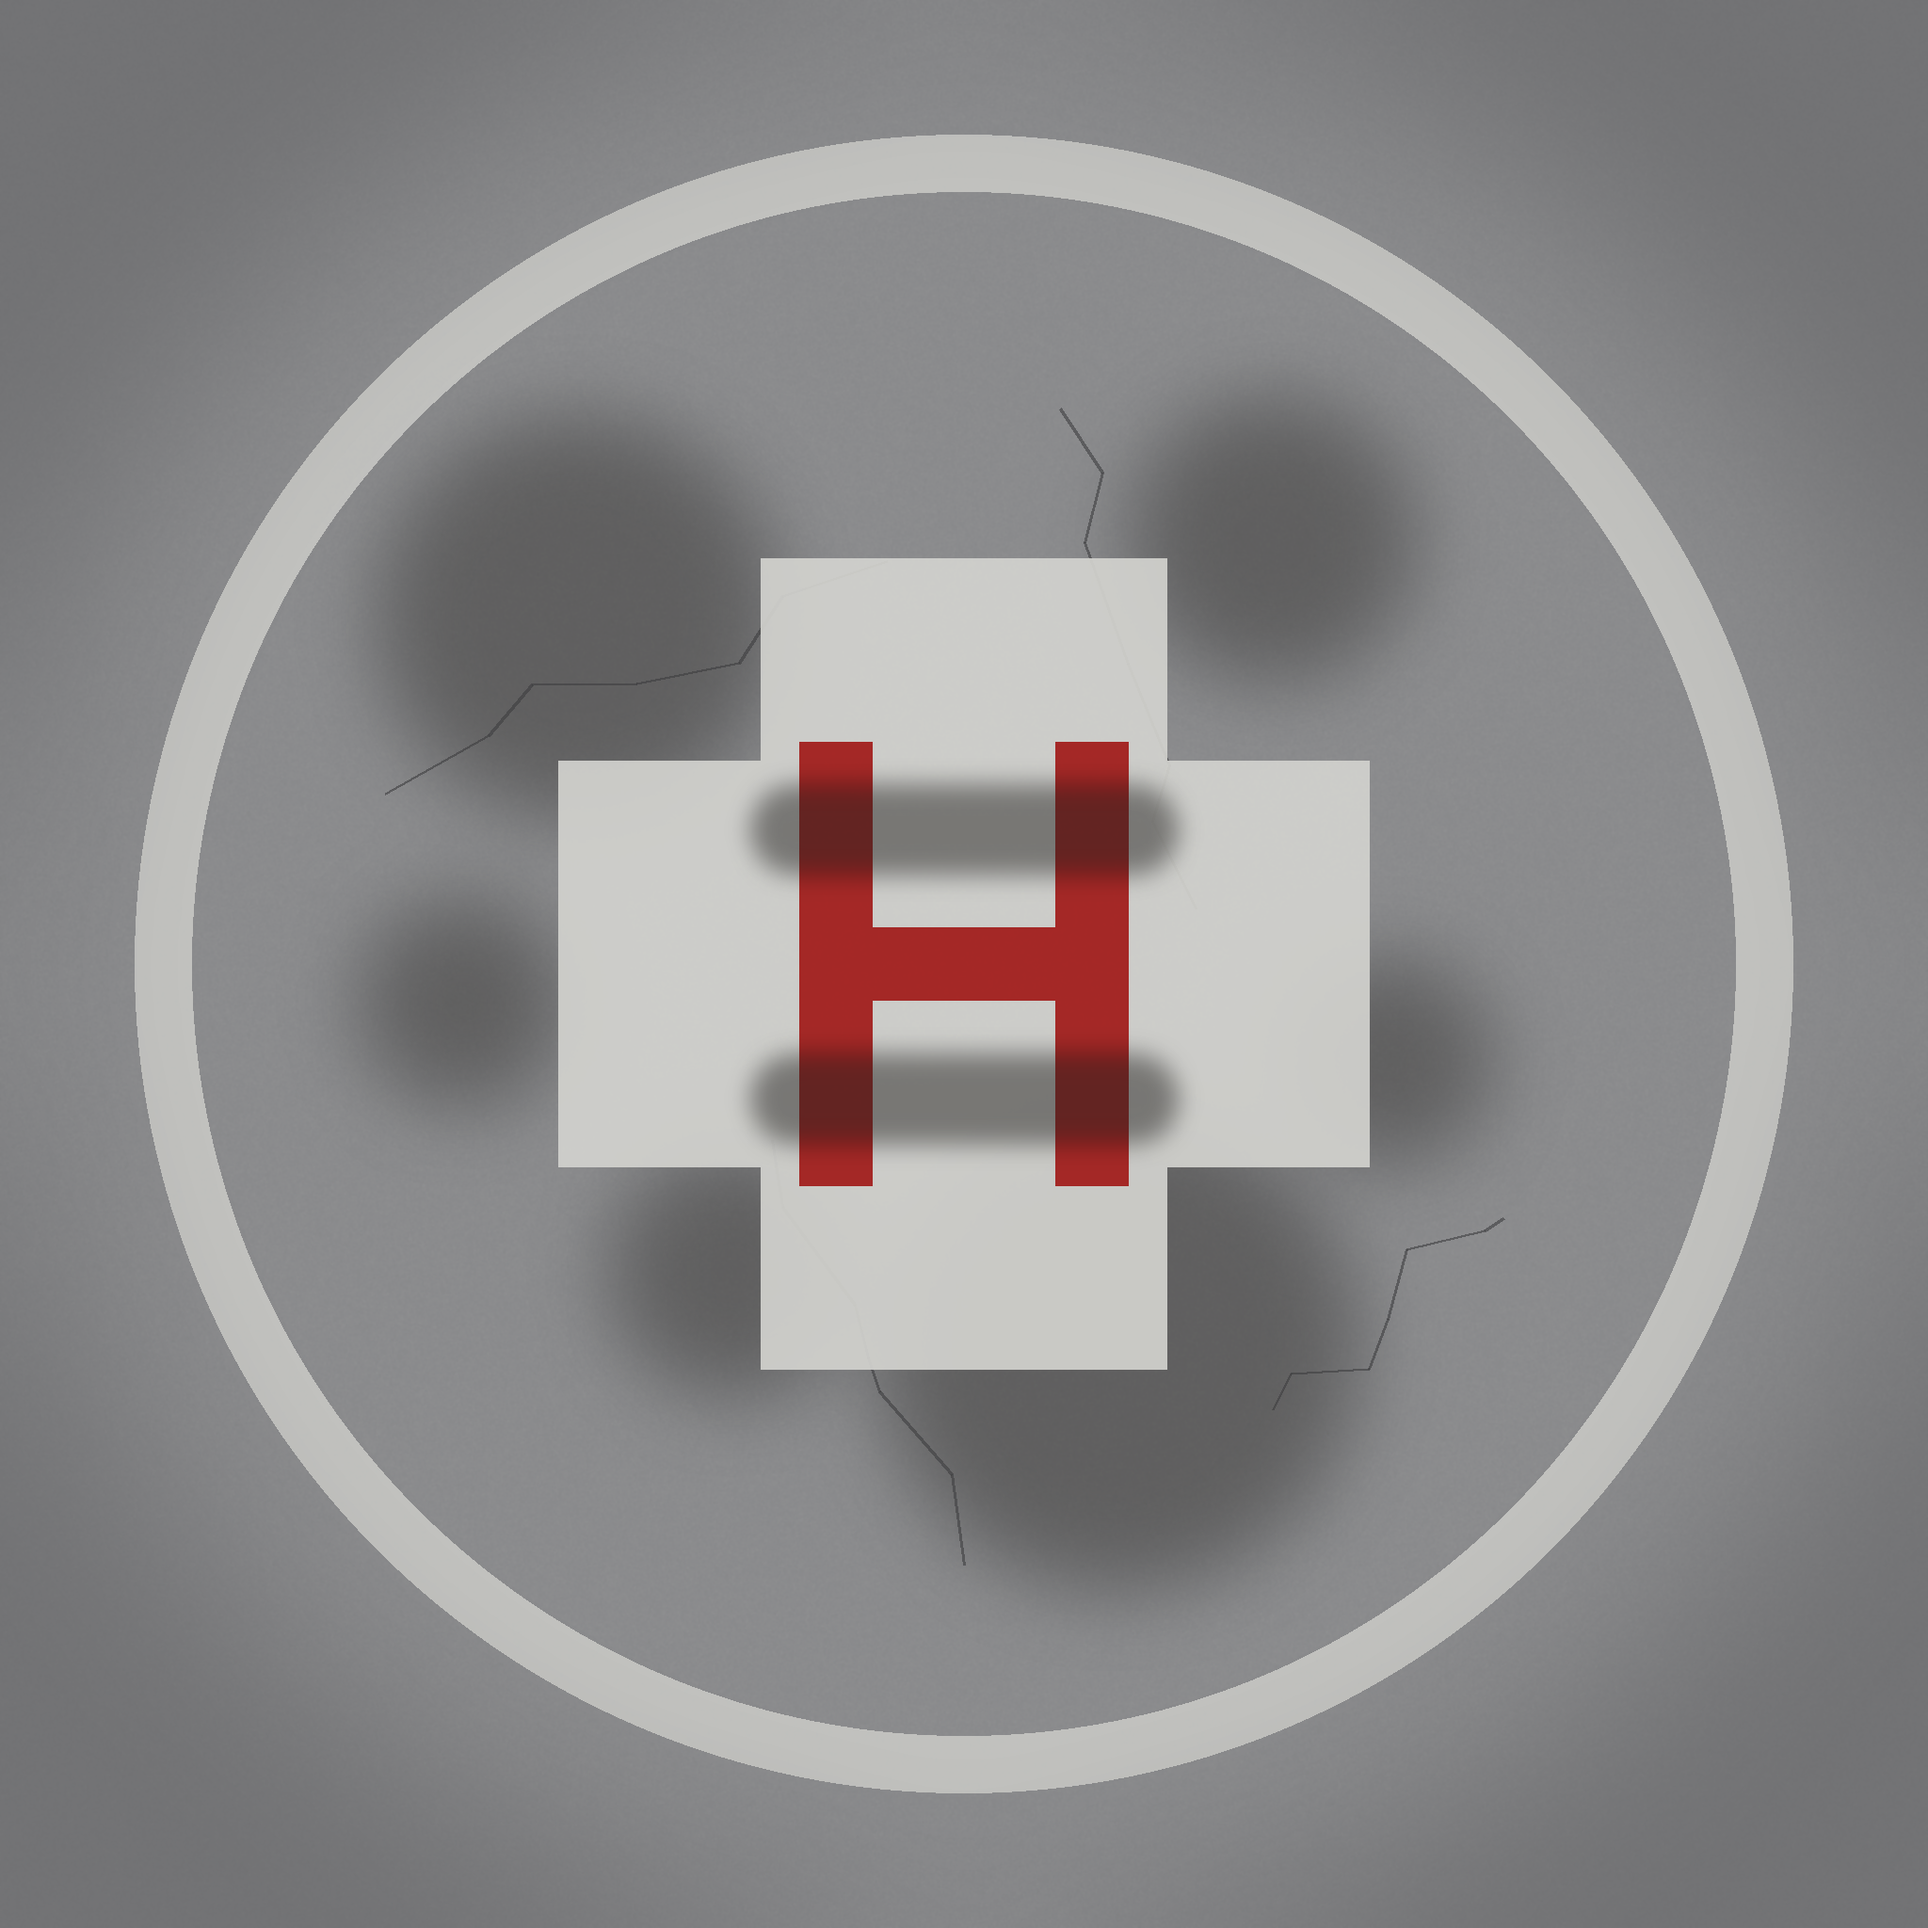
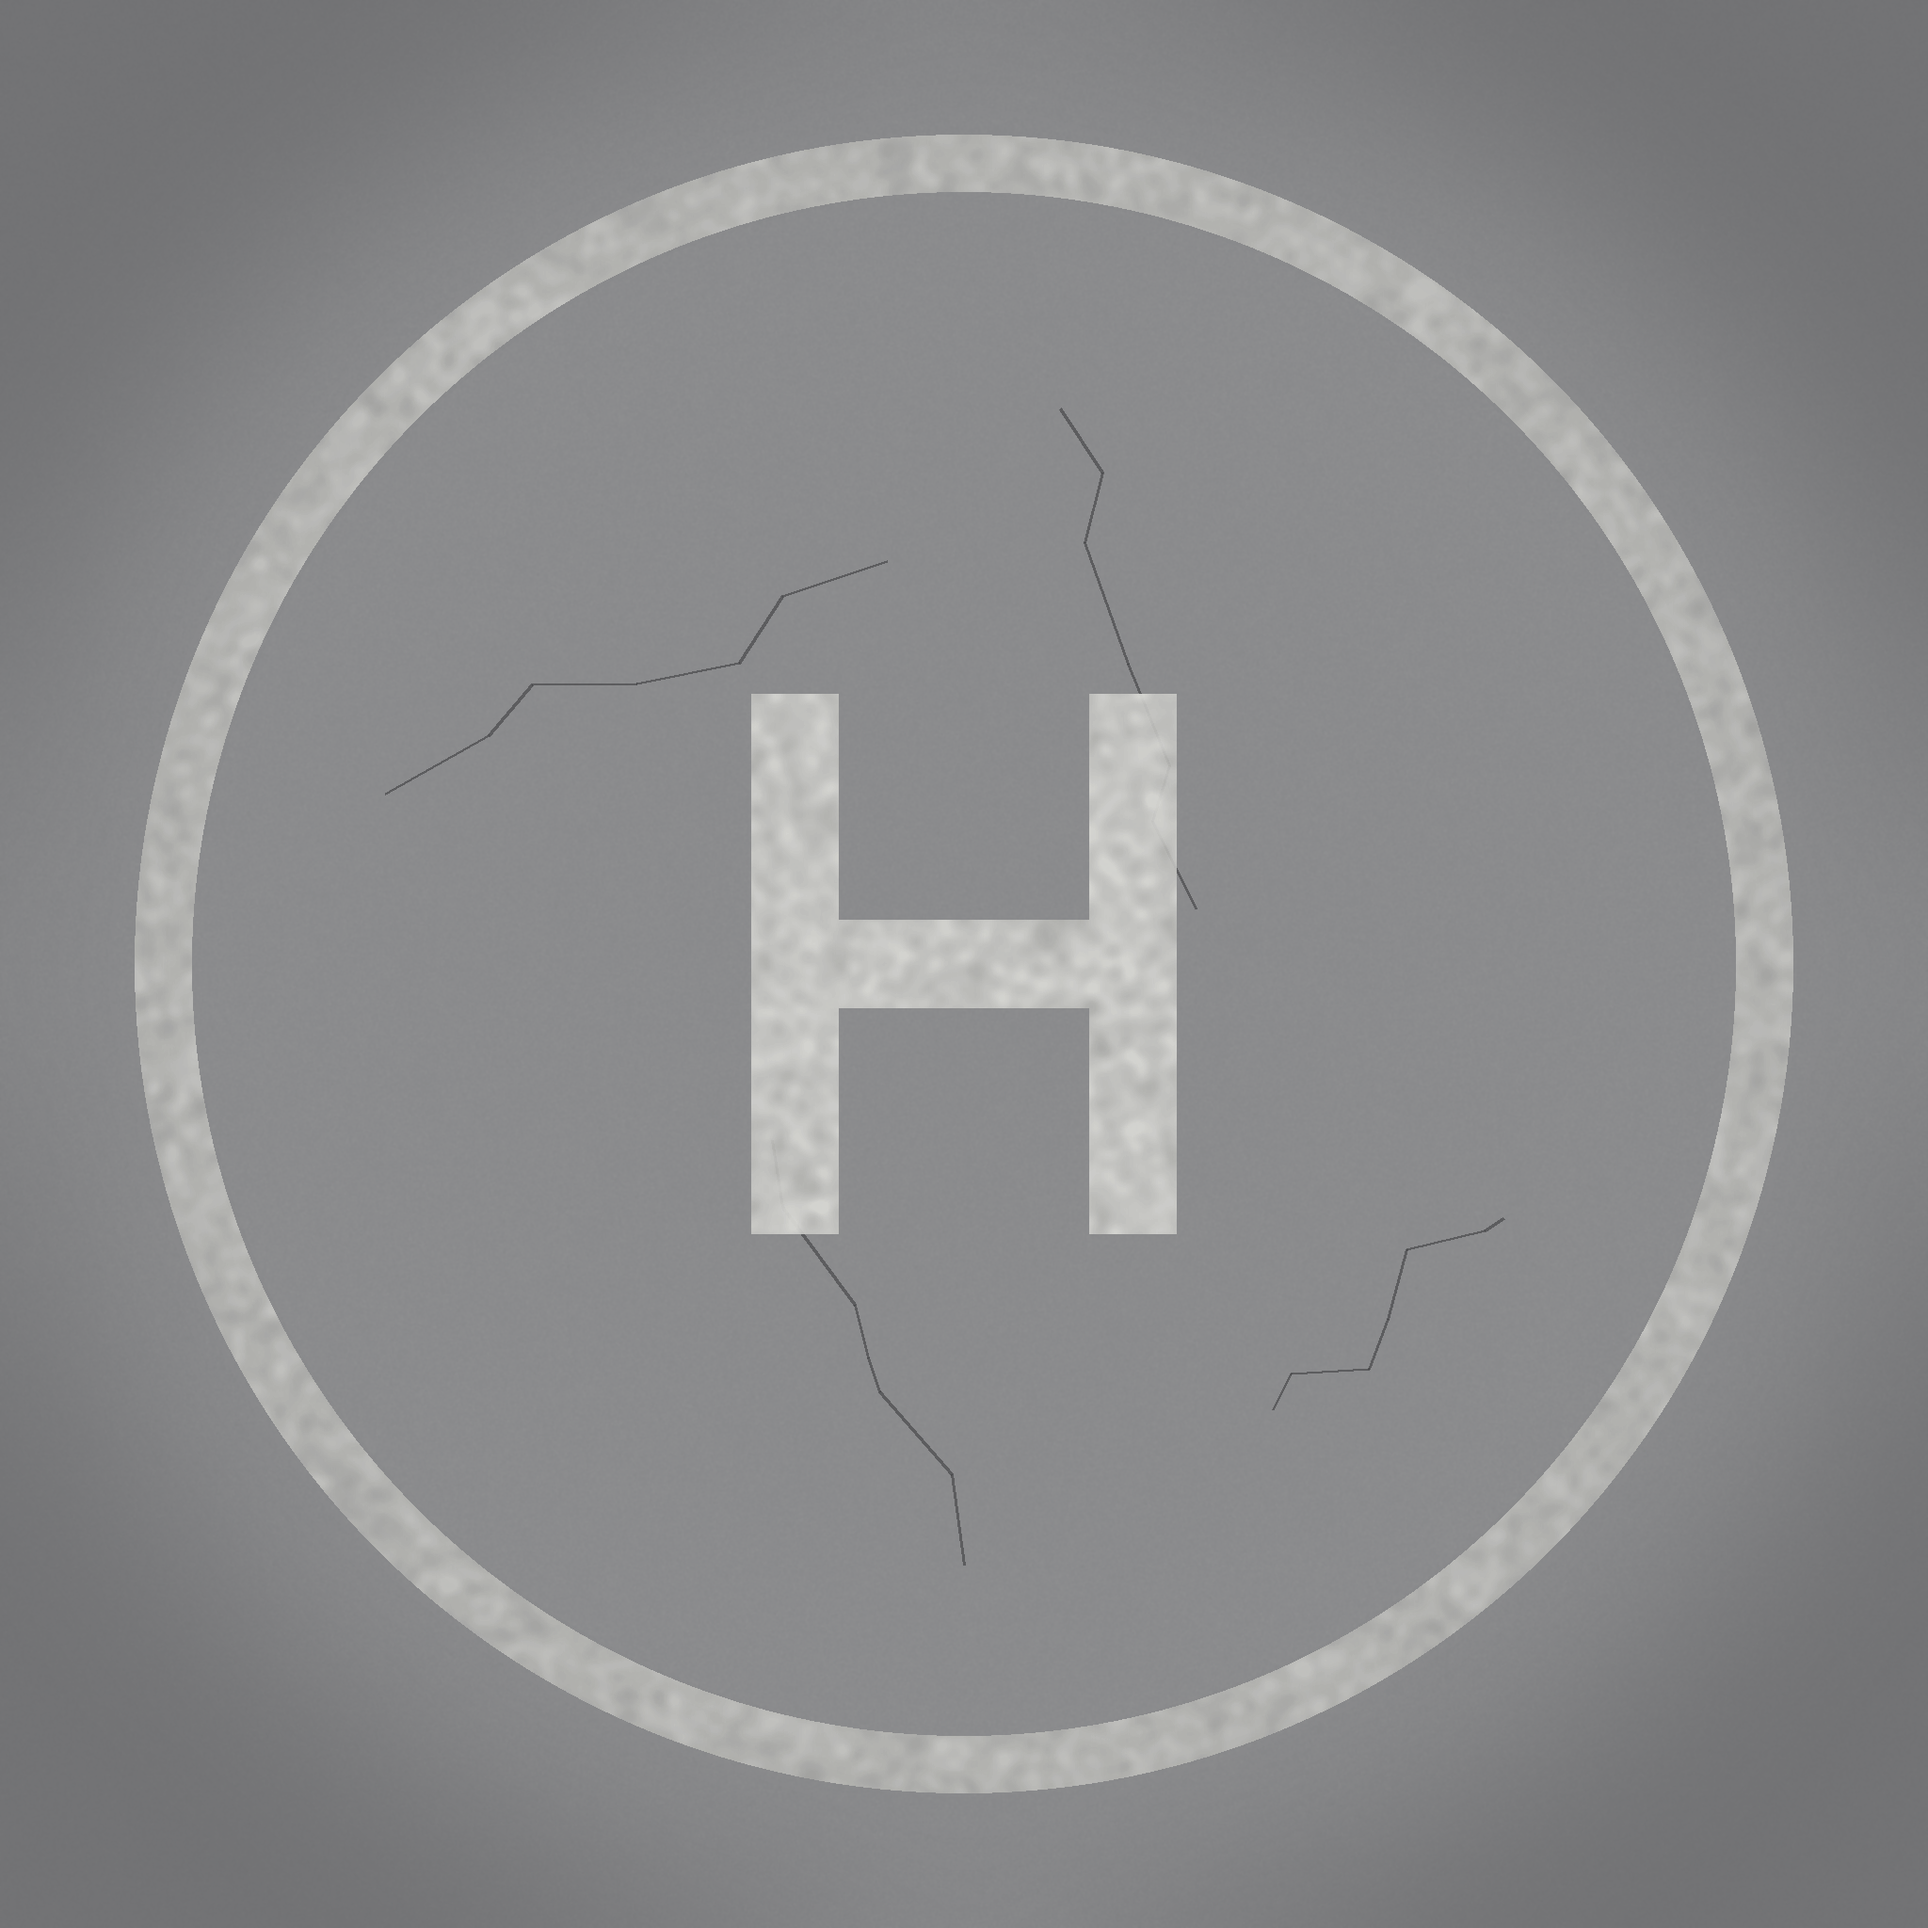
Refaire le marquage d'hélipad : H blanc sur béton vieilli
Marquage civil (anneau et grand H blancs, sans croix), peinture usée par plages laissant voir le béton. Suppression des taches de gras et des traces de patins. Le repli procédural suit le meme rendu.

Changed region(s): [[0.1875, 0.1875, 0.7812, 0.8438]]

diff --git a/tools/helipad/make_texture.py b/tools/helipad/make_texture.py
@@ -1,10 +1,9 @@
 #!/usr/bin/env python3
 """
 make_texture.py
-Génère la texture de l'hélistation hospitalière : béton usé et sali, cercle de
-poser, croix blanche et grand H rouge (marquage OACI d'un héliport d'hôpital).
-L'image est carrée ; le disque de l'helipad y est inscrit (les coins, hors
-disque, ne se voient pas).
+Génère la texture de l'hélistation : béton usé et sali, cercle de poser et grand
+H blanc (marquage d'hélistation civile, sans croix). L'image est carrée ; le
+disque de l'helipad y est inscrit (les coins, hors disque, ne se voient pas).
 
 À lancer avec le Python du venv du projet (voir tools/.venv) :
     tools/.venv/bin/python tools/helipad/make_texture.py assets/models/helipad/helipad.png
@@ -29,28 +28,14 @@ def noise(sigma, blur=0.0):
 
 
 def concrete():
-    """Dalle de béton : gris moyen, grain à deux échelles, taches sombres et
-    quelques fissures, plus un assombrissement vers le bord (salissure)."""
+    """Dalle de béton : gris moyen, grain à deux échelles et quelques fissures
+    fines, plus un assombrissement vers le bord (salissure)."""
     base = Image.new("RGB", (SIZE, SIZE), (146, 147, 150))
     fine = noise(34, 1.0)
     coarse = noise(60, 9.0)
     grain = ImageChops.multiply(fine, coarse).point(lambda p: 110 + p // 3)
     grain_rgb = Image.merge("RGB", (grain, grain, grain))
     img = Image.blend(base, grain_rgb, 0.45)
-
-    draw = ImageDraw.Draw(img, "RGBA")
-
-    # Taches d'huile / d'usure : ellipses sombres floutées, disposées au pseudo
-    # hasard (positions fixes pour un résultat reproductible).
-    stains = [(0.30, 0.32, 0.10), (0.66, 0.28, 0.07), (0.58, 0.70, 0.12),
-              (0.38, 0.66, 0.06), (0.72, 0.55, 0.05), (0.24, 0.52, 0.05)]
-    stain_layer = Image.new("RGBA", (SIZE, SIZE), (0, 0, 0, 0))
-    sd = ImageDraw.Draw(stain_layer, "RGBA")
-    for fx, fy, fr in stains:
-        cx, cy, r = fx * SIZE, fy * SIZE, fr * SIZE
-        sd.ellipse([cx - r, cy - r, cx + r, cy + r], fill=(40, 38, 36, 110))
-    stain_layer = stain_layer.filter(ImageFilter.GaussianBlur(SIZE * 0.02))
-    img = Image.alpha_composite(img.convert("RGBA"), stain_layer).convert("RGB")
 
     draw = ImageDraw.Draw(img, "RGBA")
     # Fissures : courtes lignes sombres irrégulières.
@@ -68,10 +53,16 @@ def concrete():
 
 
 def worn_alpha(base_alpha):
-    """Masque d'alpha pour une peinture usée : surtout opaque, avec des plages
-    plus pâles (la peinture s'efface par endroits)."""
-    wear = noise(70, 2.0).point(lambda p: base_alpha if p > 64 else base_alpha - 70 + p)
-    return wear
+    """Masque d'alpha d'une peinture usée : surtout opaque, avec un grain fin
+    d'éraflures et de grandes plages où la peinture s'est effacée (le béton
+    réapparaît par endroits), pour un marquage vieilli plutôt que neuf."""
+    # Grain fin : petites éraflures, peinture presque intacte en général.
+    fine = noise(70, 2.0).point(lambda p: base_alpha if p > 64 else base_alpha - 70 + p)
+    # Grandes plages d'usure : flou modéré (pour garder du contraste) et seuil haut,
+    # la peinture reste pleine par grandes zones et s'efface franchement dans les
+    # creux (jusqu'au béton nu), pour une usure bien visible mais pas totale.
+    coarse = noise(80, 6.0).point(lambda p: 255 if p > 135 else int(p * 255 / 135))
+    return ImageChops.multiply(fine, coarse)
 
 
 def add_marking(img, shape_draw, color, base_alpha=235):
@@ -86,38 +77,12 @@ def add_marking(img, shape_draw, color, base_alpha=235):
     return Image.alpha_composite(img.convert("RGBA"), layer).convert("RGB")
 
 
-def add_skid_marks(img):
-    """Deux traînées sombres parallèles laissées par les patins, le long de l'axe
-    avant-arrière (axe X de la texture). Posées par-dessus le marquage, comme un
-    frottement de caoutchouc accumulé au fil des poses."""
-    full = SIZE / 2.0
-    cx = cy = full
-    length = full * 0.22   # demi-longueur de la trace
-    width = full * 0.045   # demi-épaisseur
-    offset = full * 0.14   # écart latéral entre les deux patins
-
-    layer = Image.new("RGBA", (SIZE, SIZE), (0, 0, 0, 0))
-    d = ImageDraw.Draw(layer, "RGBA")
-    for sign in (-1, 1):
-        oy = cy + sign * offset
-        d.rounded_rectangle([cx - length, oy - width, cx + length, oy + width],
-                            radius=width, fill=(34, 32, 30, 130))
-        # Quelques stries plus sombres pour le grain du frottement.
-        for k in range(-2, 3):
-            yy = oy + k * (width * 0.4)
-            d.line([(cx - length * 0.95, yy), (cx + length * 0.95, yy)],
-                   fill=(20, 19, 18, 90), width=2)
-    layer = layer.filter(ImageFilter.GaussianBlur(SIZE * 0.006))
-    return Image.alpha_composite(img.convert("RGBA"), layer).convert("RGB")
-
-
 def main(out_path):
     full = SIZE / 2.0
     cx = cy = full
     img = concrete()
 
     white = (228, 228, 224)
-    red = (172, 32, 30)
 
     # Cercle de poser (anneau blanc).
     def ring(d):
@@ -127,27 +92,17 @@ def main(out_path):
 
     img = add_marking(img, ring, white, base_alpha=225)
 
-    # Croix blanche (croix grecque : deux barres égales qui se croisent).
-    arm = full * 0.42   # demi-longueur d'une barre
-    half = full * 0.21  # demi-épaisseur d'une barre
-
-    def cross(d):
-        d.rectangle([cx - half, cy - arm, cx + half, cy + arm], fill=255)
-        d.rectangle([cx - arm, cy - half, cx + arm, cy + half], fill=255)
-
-    img = add_marking(img, cross, white, base_alpha=235)
-
-    # Grand H rouge au centre de la croix.
-    half_w = full * 0.17
-    half_l = full * 0.23
-    stroke = full * 0.075
+    # Grand H blanc au centre (marquage d'hélistation civile, sans croix).
+    half_w = full * 0.22
+    half_l = full * 0.28
+    stroke = full * 0.09
 
     def letter_h(d):
         d.rectangle([cx - half_w, cy - half_l, cx - half_w + stroke, cy + half_l], fill=255)
         d.rectangle([cx + half_w - stroke, cy - half_l, cx + half_w, cy + half_l], fill=255)
         d.rectangle([cx - half_w, cy - stroke / 2, cx + half_w, cy + stroke / 2], fill=255)
 
-    img = add_marking(img, letter_h, red, base_alpha=240)
+    img = add_marking(img, letter_h, white, base_alpha=240)
 
     # Salissure finale : léger assombrissement vers le bord du disque (vignette).
     vignette = Image.new("L", (SIZE, SIZE), 0)
@@ -157,9 +112,6 @@ def main(out_path):
         lambda p: 255 - int((255 - p) * 0.5))
     dark = Image.new("RGB", (SIZE, SIZE), (90, 90, 92))
     img = Image.composite(img, dark, vignette)
-
-    # Traces de patins, par-dessus tout le reste.
-    img = add_skid_marks(img)
 
     img.save(out_path)
     print("[texture] écrit", out_path, img.size)

diff --git a/src/app/ApplicationScene.cpp b/src/app/ApplicationScene.cpp
@@ -197,11 +197,13 @@ void Application::initScene() {
     const auto sphereData = render::primitives::sphere(1.0f, 12, 16, vec3{1.0f, 1.0f, 1.0f});
     m_glowSphere          = std::make_unique<render::Mesh>(sphereData.vertices, sphereData.indices);
 
-    /* Hélipad de la zone de départ : disque gris très clair (presque blanc), anneau
-       gris foncé et grand H rouge. Centré sur l'origine ; placé au départ à l'affichage. */
-    const auto padData = render::primitives::helipad(7.0f, 48, vec3{0.90f, 0.90f, 0.92f},
-                                                     vec3{0.20f, 0.20f, 0.22f},
-                                                     vec3{0.80f, 0.10f, 0.10f});
+    /* Hélipad de la zone de départ : disque béton foncé, anneau et grand H blancs
+       (marquage d'hélistation civile, sans croix). Centré sur l'origine ; placé au
+       départ à l'affichage. Repli seulement : la version texturée le remplace si elle
+       est présente. */
+    const auto padData = render::primitives::helipad(7.0f, 48, vec3{0.45f, 0.45f, 0.47f},
+                                                     vec3{0.92f, 0.92f, 0.90f},
+                                                     vec3{0.95f, 0.95f, 0.93f});
     m_helipad          = std::make_unique<render::Mesh>(padData.vertices, padData.indices);
 
     /* Jupe des hélisurfaces : paroi cylindrique sous le disque, pour les pads
